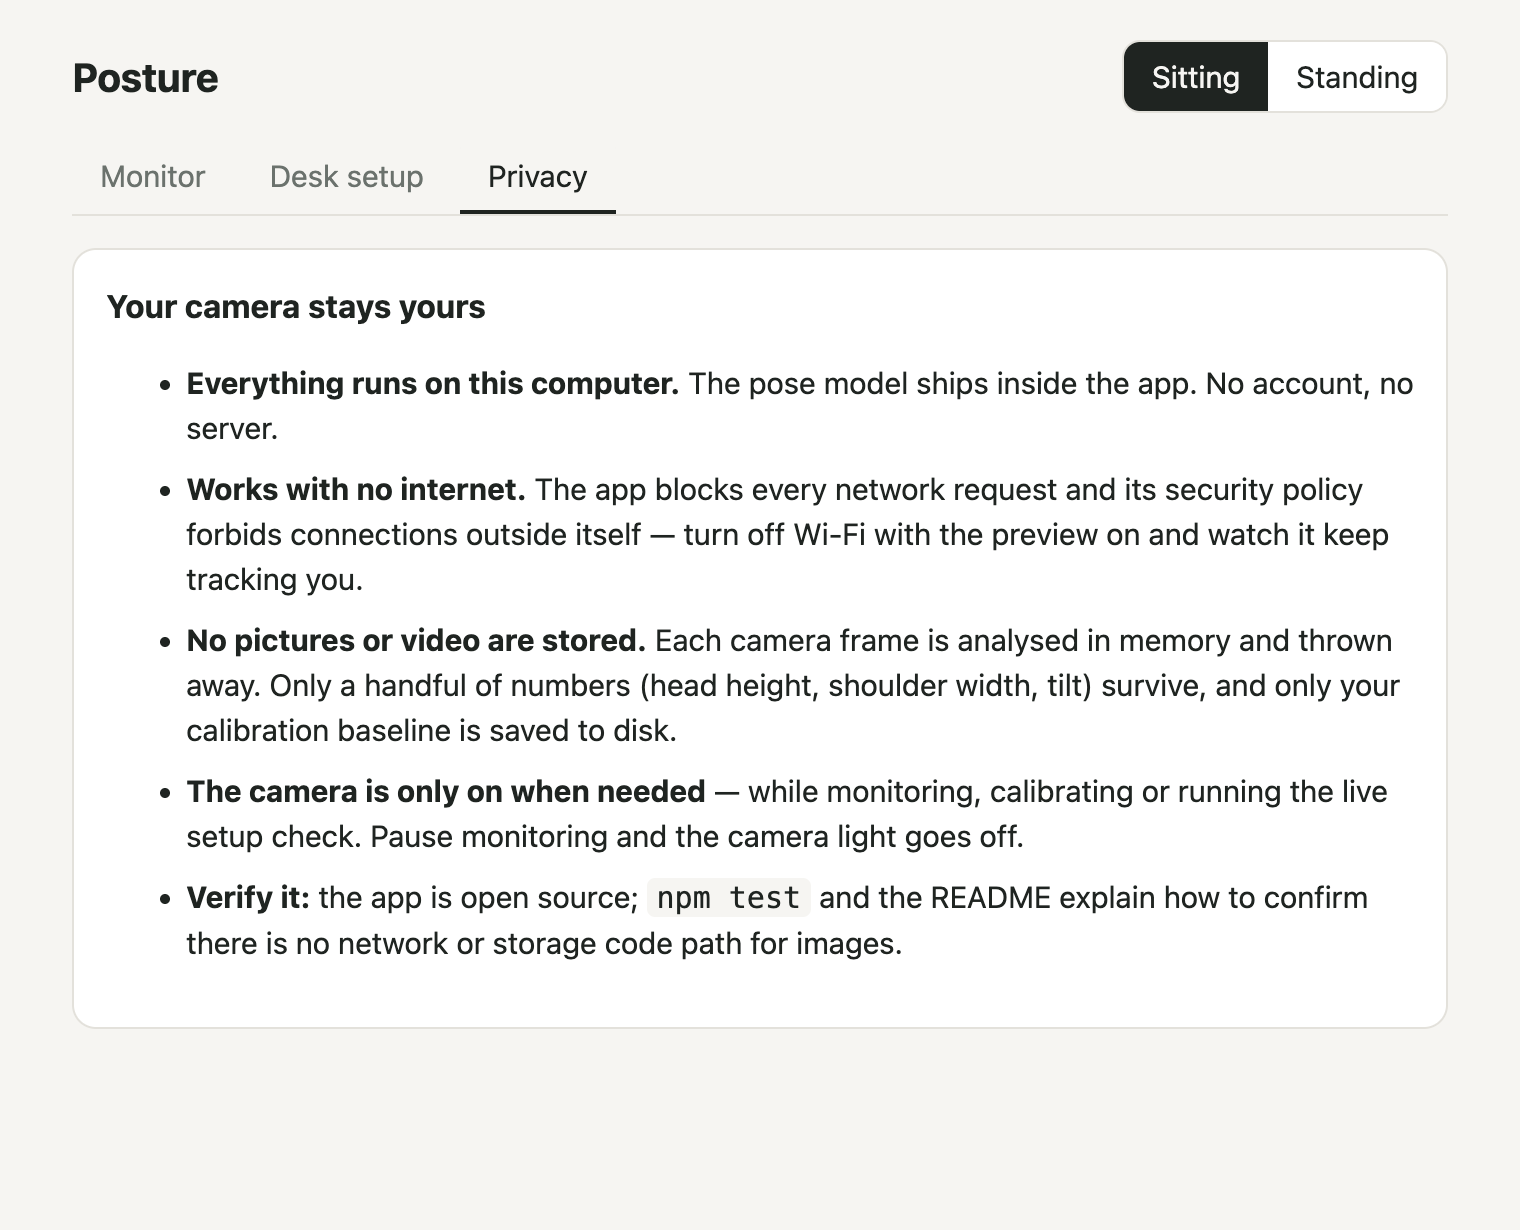
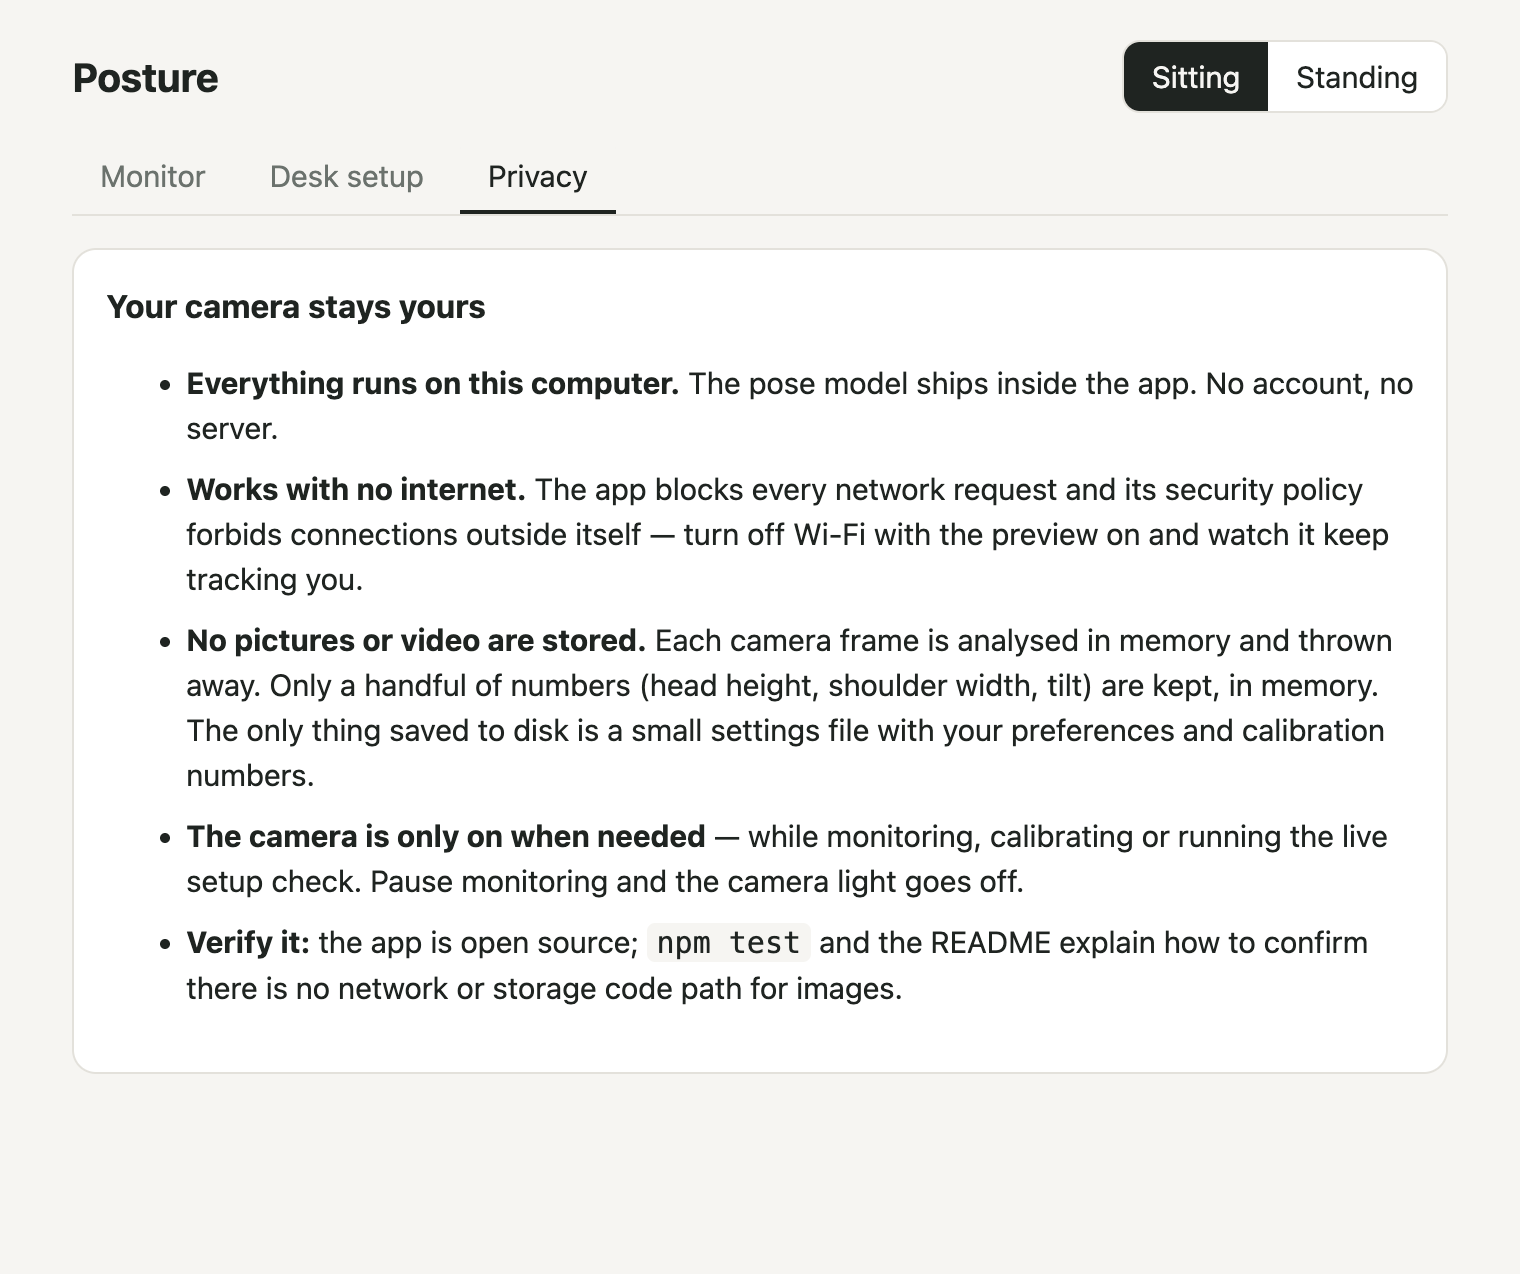
Privacy tab: say exactly what is saved to disk (preferences + calibration numbers)

diff --git a/src/renderer/index.html b/src/renderer/index.html
@@ -109,7 +109,7 @@
       <ul>
         <li><b>Everything runs on this computer.</b> The pose model ships inside the app. No account, no server.</li>
         <li><b>Works with no internet.</b> The app blocks every network request and its security policy forbids connections outside itself — turn off Wi-Fi with the preview on and watch it keep tracking you.</li>
-        <li><b>No pictures or video are stored.</b> Each camera frame is analysed in memory and thrown away. Only a handful of numbers (head height, shoulder width, tilt) survive, and only your calibration baseline is saved to disk.</li>
+        <li><b>No pictures or video are stored.</b> Each camera frame is analysed in memory and thrown away. Only a handful of numbers (head height, shoulder width, tilt) are kept, in memory. The only thing saved to disk is a small settings file with your preferences and calibration numbers.</li>
         <li><b>The camera is only on when needed</b> — while monitoring, calibrating or running the live setup check. Pause monitoring and the camera light goes off.</li>
         <li><b>Verify it:</b> the app is open source; <code>npm test</code> and the README explain how to confirm there is no network or storage code path for images.</li>
       </ul>
